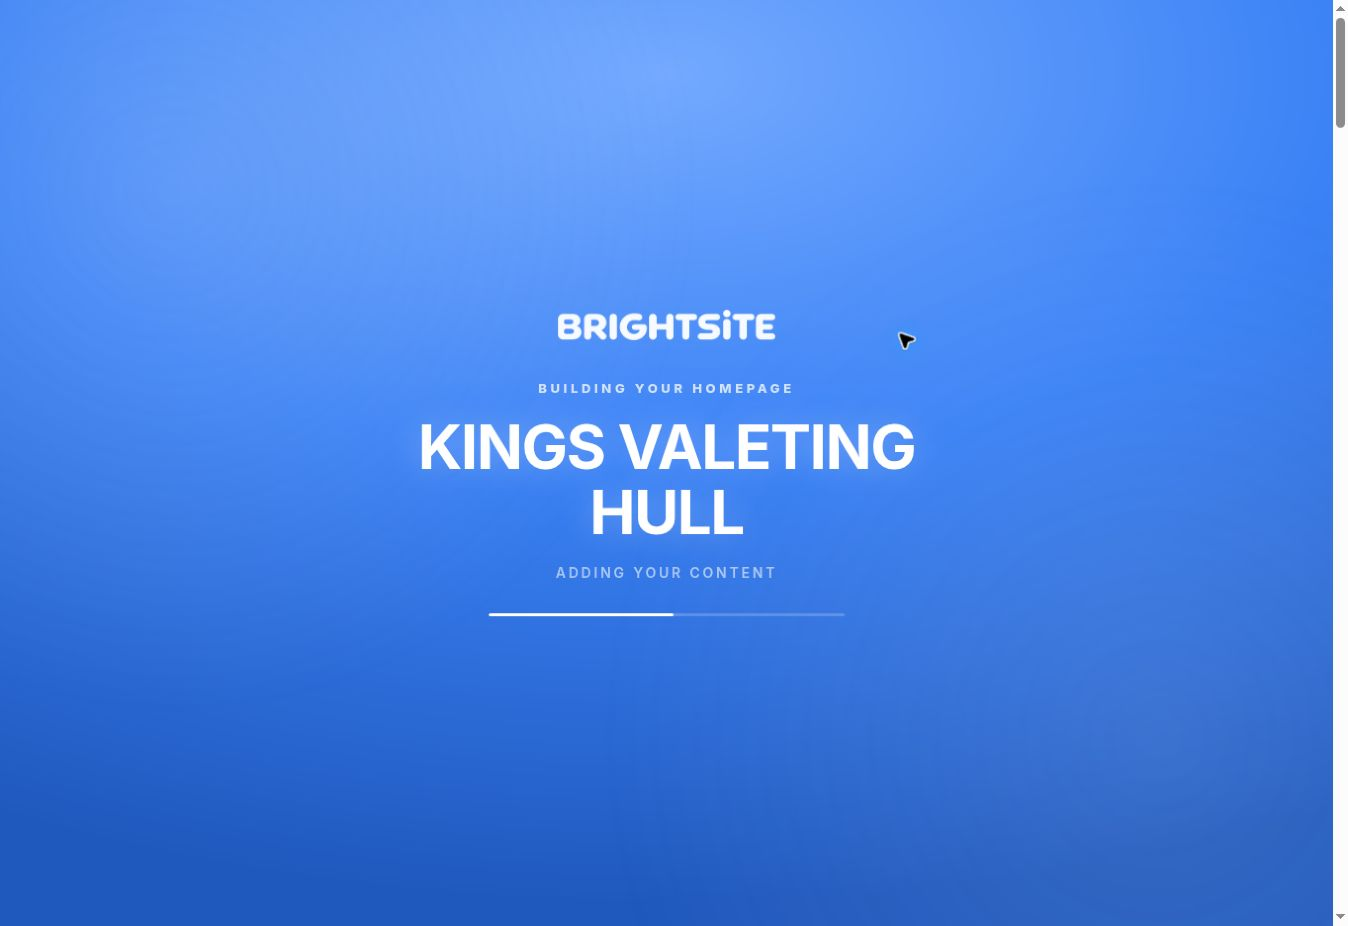
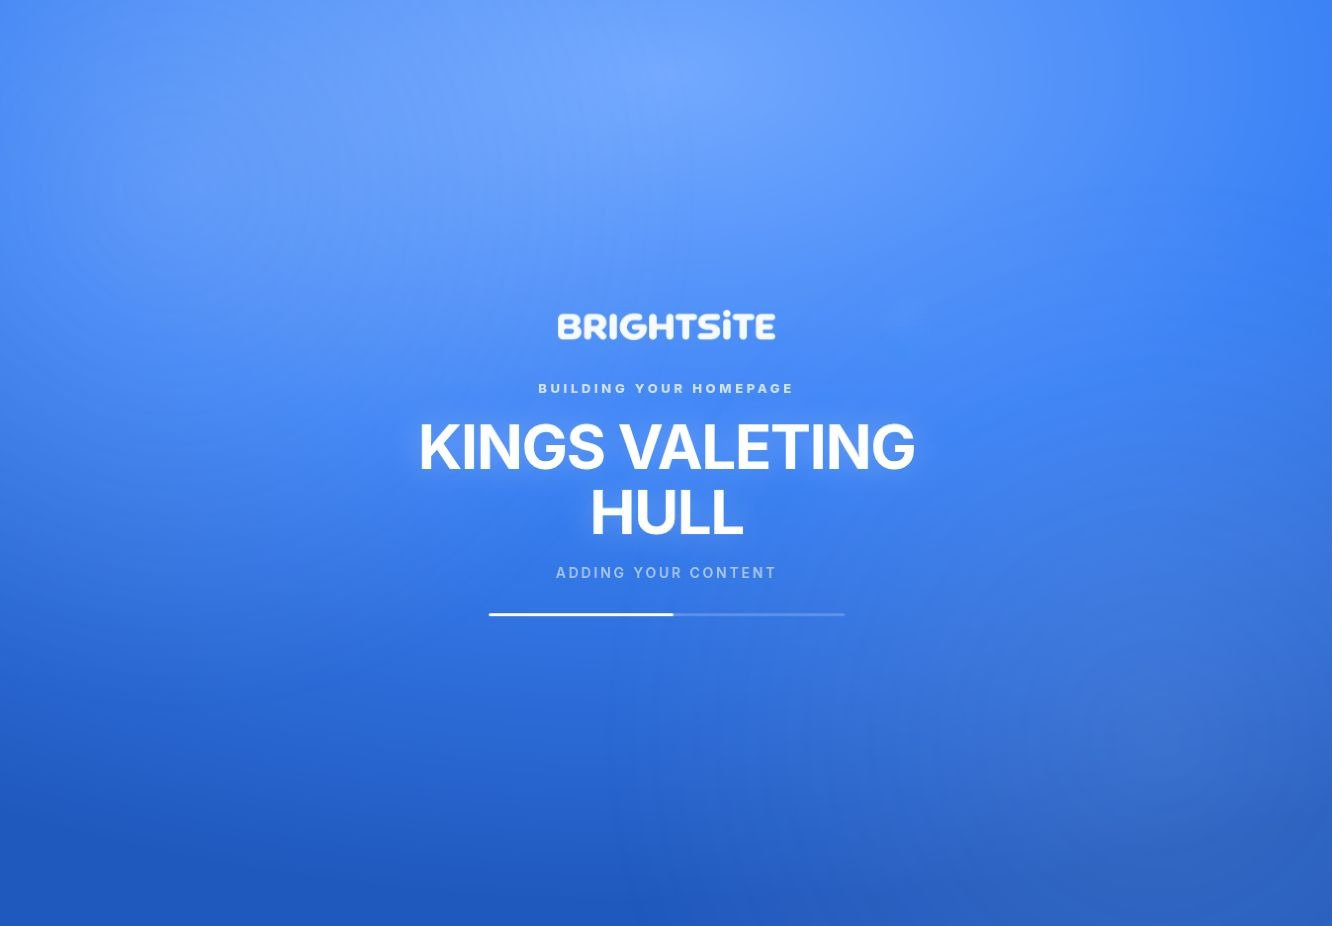
Frame the step-3 Kings Valeting preview like a real browser window; clean up two demo screenshots
- step-3.jpg's replacement image (kings-valeting.webp) now sits inside the
  same browser-chrome bar + crop treatment as the Our Work carousel cards,
  instead of being a bare screenshot
- Removed a stray cursor icon baked into the "Instant automated demo" (SISKŌ)
  screenshot and the "Kings Valeting Hull" loading-step screenshot, and
  cropped the OS scrollbar off the right edge of the latter
- Dropped a duplicate founder-bio insert on the homepage (origin/main already
  moved it to the top of work.html)

diff --git a/index.html b/index.html
@@ -135,7 +135,7 @@
         <p>Tell Tom what you like, what you want changed and how you imagine the final site.</p>
       </div>
       <div class="step3">
-        <div class="step3-img"><img src="img/work-previews/kings-valeting.webp" alt="Kings Valeting Hull homepage demonstration" loading="lazy" width="960" height="600"></div>
+        <div class="step3-img"><img src="img/work-previews/kings-valeting.webp" alt="Kings Valeting Hull homepage demonstration, shown in a browser window" loading="lazy" width="960" height="583"></div>
         <div class="step3-num">3</div>
         <h4>Approve, launch and relax</h4>
         <p>Once you love it, we launch it and handle the hosting, SEO, changes and upkeep.</p>
@@ -347,8 +347,6 @@
   </div>
 </section>
 
-
-
 <div class="after">
   <section id="missed">
     <div class="wrap">
@@ -388,17 +386,6 @@
         <details><summary>Can you help with my domain name?</summary><p>Yes. We can connect a domain you already own or help you choose and set up a new one. Domain registration is charged separately by the domain provider.</p></details>
         <details><summary>How do I request changes?</summary><p>Send your change directly to Tom by WhatsApp or email. Everyday text, image, price and opening-hour updates are included in management.</p></details>
         <details><summary>Can I cancel management?</summary><p>Yes. You can cancel the monthly management service at any time. We will explain the available handover or hosting options before anything changes.</p></details>
-      </div>
-    </div>
-  </section>
-
-  <section id="final-cta">
-    <div class="wrap">
-      <div class="band">
-        <div class="eyebrow">Turn more visitors into enquiries</div>
-        <h3>See your website before you decide</h3>
-        <p>Answer three quick questions and we'll build you a free personalised preview. No card required.</p>
-        <a class="go" href="/" data-totop>Create my preview</a>
       </div>
     </div>
   </section>
